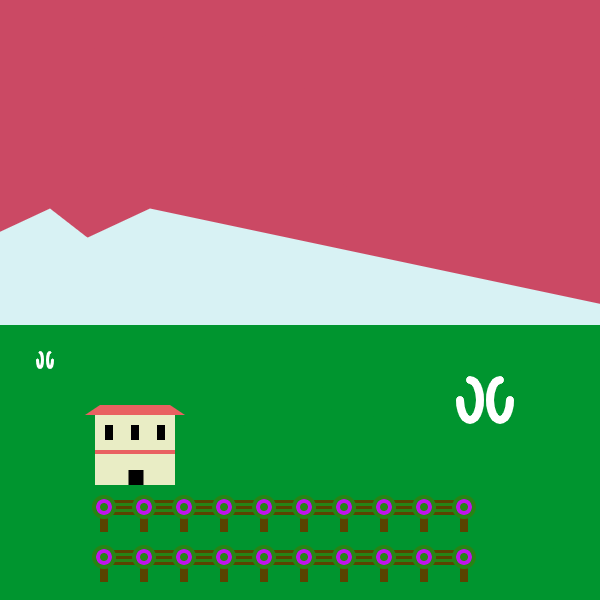
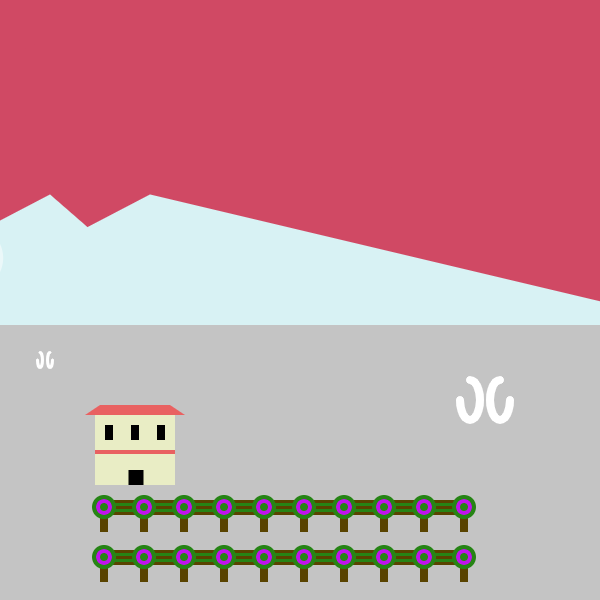
new vineyard sketch

diff --git a/src/Components/MintSketch.tsx b/src/Components/MintSketch.tsx
@@ -273,6 +273,10 @@ const MintSketch: React.FC<any> = ({
 
         p5.fill("#CCD8D9");
         p5.triangle(200, 325, 450, 250, 800, 325);
+
+        // hot air balloon
+        balloon(120, 130, "rgb(238,81,81)");
+        balloon(470, 155, "rgb(237,241,161)");
       } else if (vine_location == 3) {
         //denali
         doGround(275);
@@ -288,6 +292,11 @@ const MintSketch: React.FC<any> = ({
         p5.triangle(100, 425, 320, mHeight(425), 600, 425);
         p5.fill("#416C6C");
         p5.triangle(-200, 425, 0, mHeight(425), 400, 425);
+
+        // glaciers
+        p5.fill("rgb(209,248,241)");
+        p5.quad(60, 600, 30, 470, -10, 450, -10, 600);
+        p5.quad(540, 600, 570, 470, 610, 450, 610, 600);
       } else if (vine_location == 4) {
         //madeira
         doGround(375);
@@ -357,6 +366,36 @@ const MintSketch: React.FC<any> = ({
         p5.triangle(200, 325, 450, mHeight(250), 800, 325);
         p5.fill("#2a9720");
         p5.triangle(-200, 325, 40, mHeight(305), 400, 325);
+
+        // trees
+        tree(74, 315, 22, 16);
+        tree(104, 319, 22, 16);
+        tree(118, 326, 22, 16);
+        tree(132, 316, 22, 16);
+        tree(162, 324, 22, 14);
+        tree(188, 316, 18, 24);
+        tree(238, 316, 29, 16);
+        tree(258, 322, 22, 26);
+        tree(288, 316, 26, 16);
+        tree(318, 316, 24, 18);
+        tree(358, 316, 19, 16);
+        tree(374, 336, 24, 24);
+
+        tree(104, 319, 22, 16);
+        tree(455, 335, 22, 14);
+        tree(335, 325, 32, 16);
+        tree(215, 315, 16, 18);
+        tree(535, 325, 42, 15);
+        tree(525, 315, 32, 21);
+        tree(515, 345, 31, 22);
+        tree(535, 325, 32, 16);
+        tree(475, 342, 32, 12);
+        tree(425, 335, 32, 16);
+        tree(410, 315, 32, 19);
+        tree(465, 315, 22, 16);
+        tree(575, 315, 38, 16);
+        tree(565, 345, 55, 23);
+        tree(585, 365, 26, 25);
       } else if (vine_location == 10) {
         //ohio
         doGround(325);
@@ -371,6 +410,26 @@ const MintSketch: React.FC<any> = ({
         p5.triangle(200, 325, 450, mHeight(250), 800, 325);
         p5.fill("#7cc67c");
         p5.triangle(-100, 345, 80, mHeight(250), 345, 345);
+
+        // trees
+        tree(14, 335, 22, 21);
+        tree(34, 345, 22, 18);
+        tree(54, 340, 22, 17);
+        tree(84, 340, 22, 25);
+        tree(112, 333, 22, 16);
+
+        tree(455, 335, 22, 14);
+        tree(335, 325, 32, 16);
+        tree(535, 325, 42, 15);
+        tree(525, 315, 32, 21);
+        tree(515, 345, 31, 22);
+        tree(535, 325, 32, 16);
+        tree(475, 342, 26, 12);
+        tree(425, 335, 23, 16);
+        tree(410, 315, 32, 19);
+        tree(465, 315, 22, 16);
+        tree(575, 315, 38, 16);
+
         p5.fill("#53c454");
         p5.triangle(-200, 420, 210, mHeight(420), 1000, 420);
       } else if (vine_location == 12) {
@@ -381,6 +440,11 @@ const MintSketch: React.FC<any> = ({
         p5.triangle(-200, 325, 40, mHeight(310), 400, 325);
         p5.fill("#657165");
         p5.triangle(200, 325, 450, mHeight(250), 800, 325);
+
+        // pagoda lol
+        pagoda(490, 305);
+        pagoda(50, 290);
+        pagoda(270, 345);
       } else if (vine_location == 13) {
         //long island
         doGround(325);
@@ -450,6 +514,10 @@ const MintSketch: React.FC<any> = ({
         p5.triangle(-80, 325, 150, mHeight(320), 500, 325);
         p5.fill("#998e9f");
         p5.triangle(200, 325, 450, mHeight(320), 800, 325);
+
+        //windmill
+        windmill(500, 360);
+        windmill(200, 300);
       } else if (vine_location == 15) {
         //atlantis
         doGround(425);
@@ -663,6 +731,50 @@ const MintSketch: React.FC<any> = ({
       }
     }
 
+    function windmill(x: any, y: any) {
+      p5.fill("rgb(117,42,42)");
+      p5.ellipse(x, y, 30, 30);
+      p5.quad(x - 15, y, x + 15, y, x + 20, y + 55, x - 20, y + 55);
+      p5.fill("brown");
+      p5.triangle(x, y, x - 48, y - 8, x - 48, y + 8);
+      p5.triangle(x, y, x + 48, y + 8, x + 48, y - 8);
+      p5.triangle(x, y, x - 8, y - 48, x + 8, y - 48);
+      p5.triangle(x, y, x - 8, y + 40, x + 8, y + 40);
+    }
+
+    function pagoda(x: any, y: any) {
+      p5.fill("#F6FAD6"); // white
+      p5.rect(x, y, 40, 80);
+
+      p5.fill("black");
+      p5.rect(x + 10, y + 70, 10, 10);
+
+      p5.fill("#e96161"); //red
+      p5.quad(x, y, x + 40, y, x + 75, y + 10, x - 35, y + 10);
+      p5.quad(x, y + 20, x + 40, y + 20, x + 75, y + 30, x - 35, y + 30);
+      p5.quad(x, y + 40, x + 40, y + 40, x + 75, y + 50, x - 35, y + 50);
+    }
+
+    function balloon(x: any, y: any, color: any) {
+      let size = 60;
+      p5.stroke("white");
+      p5.line(x - 11, y + 50, x - 18, y + 15);
+      p5.line(x + 11, y + 50, x + 18, y + 15);
+      p5.noStroke();
+      p5.fill(color);
+      p5.ellipse(x, y, size, size);
+      p5.fill("brown");
+      p5.quad(x - 12, y + 50, x + 12, y + 50, x + 10, y + 60, x - 10, y + 60);
+    }
+
+    function tree(x: any, y: any, height: any, width: any) {
+      p5.fill("brown");
+      p5.quad(x - 2, y, x + 2, y, x + 2, y + height, x - 2, y + height);
+
+      p5.fill("#68B35A");
+      p5.ellipse(x, y, width, width);
+    }
+
     if (vine_location <= 14) {
       p5.background(backgroundFromTime(), 73, 100);
     } else if (vine_location == 15) {
@@ -697,12 +809,6 @@ const MintSketch: React.FC<any> = ({
       doComet();
     }
 
-    if (vine_location <= 14) {
-      cloudX += 0.2;
-      if (cloudX == 700) cloudX = -200;
-      doClouds();
-    }
-
     locationAction();
 
     manor();
@@ -711,6 +817,12 @@ const MintSketch: React.FC<any> = ({
 
     for (let i = 0; i < numVines; i++) {
       vines[i].display();
+    }
+
+    if (vine_location <= 14) {
+      cloudX += 0.2;
+      if (cloudX == 700) cloudX = -200;
+      doClouds();
     }
 
     if (vine_location == 13) {

diff --git a/src/pages/mint.tsx b/src/pages/mint.tsx
@@ -154,6 +154,7 @@ const MintContainer = () => {
                     }
                     height={120}
                     width={120}
+                    unoptimized={true}
                   />
                   {index <= limit() ? (
                     <>
@@ -178,6 +179,7 @@ const MintContainer = () => {
                     src={`/thumbnails/vineyards/${index}.png`}
                     height={120}
                     width={120}
+                    unoptimized={true}
                   />
                   <div>{loc.name}</div>
                   <div>{loc.climate.name}</div>
